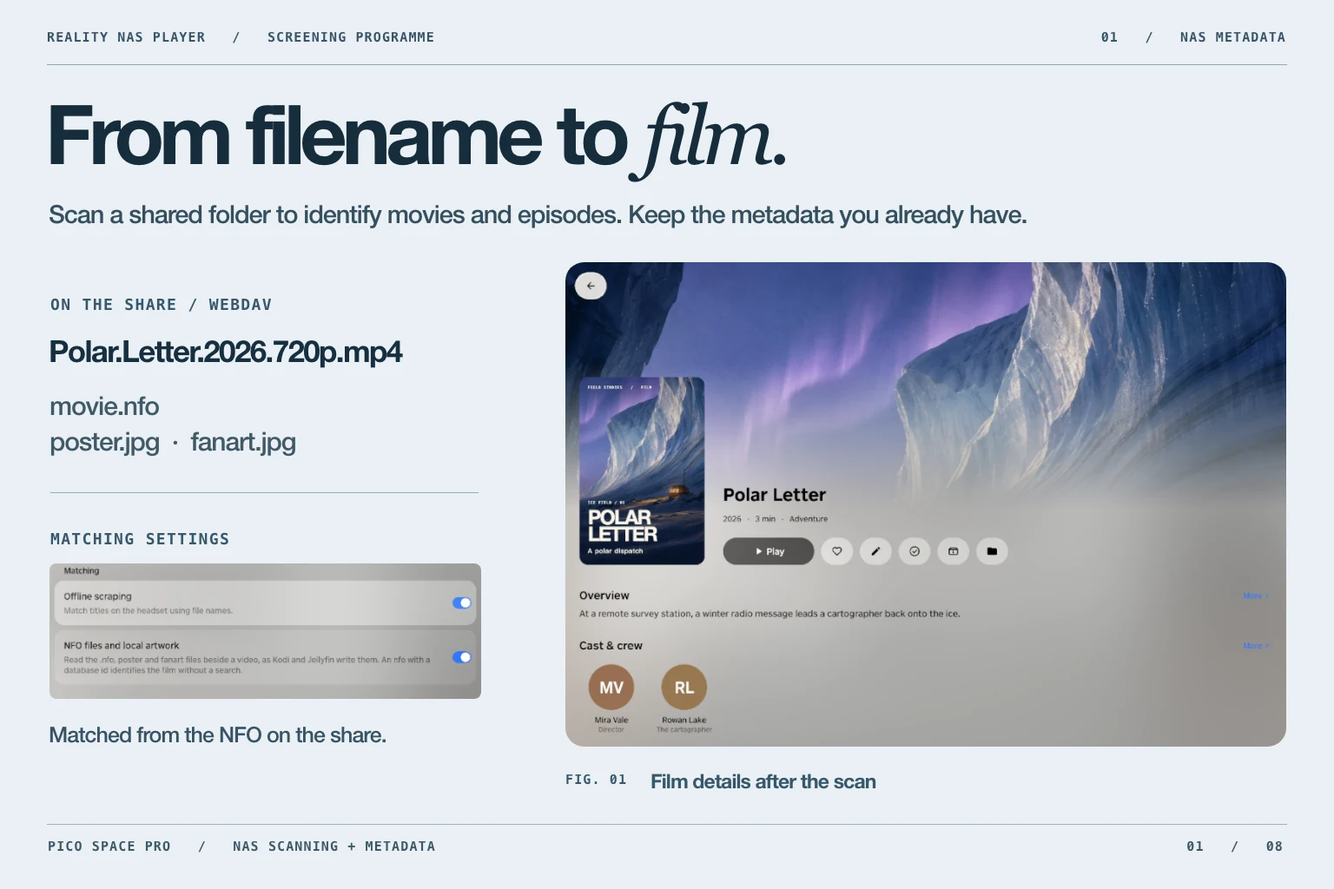
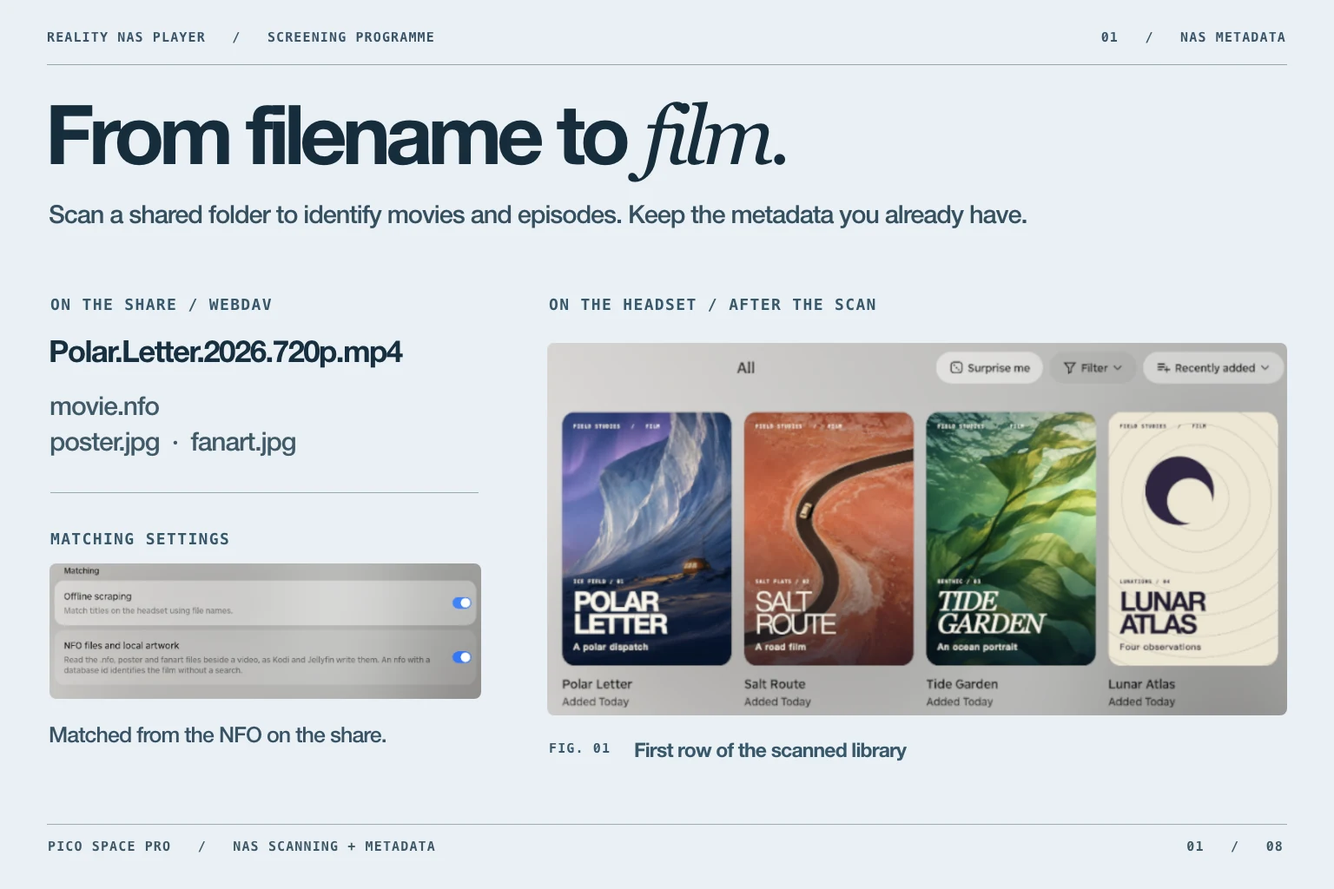
Show the scanned poster wall throughout the library guide

Changed region(s): [[0.4062, 0.2812, 0.9688, 0.9062]]

diff --git a/docs/showcase/README.md b/docs/showcase/README.md
@@ -2,13 +2,13 @@
 
 [Product guide](../../README.md) · [Choose a language](../languages/README.md)
 
-What you see on the screens is Reality NAS Player. The headset views were captured in the PICO OS 6 emulator with the app set to English. The desktop view comes from the desktop app’s own interface. Both editions are showing the same fictional film collection.
+What you see on the screens is Reality NAS Player. The headset views were captured in the PICO OS 6 emulator with the app set to English. The desktop view shows six films from the same fictional programme in the desktop app’s own interface.
 
 | Open a poster | What to look for |
 | --- | --- |
 | [Your NAS, now showing](00-screening-room-en.webp) | A closer view from the center seat as *Polar Letter* plays in the Space Lounge. |
-| [From filename to film](01-auto-scraping-en.webp) | The original files on a WebDAV share, the app’s matching settings and the film entry produced by its scanner. |
-| [Remember the cover?](01-library-en.webp) | The six-title poster wall beside the original covers for *Salt Route* and *Tide Garden*. |
+| [From filename to film](01-auto-scraping-en.webp) | The files for *Polar Letter* on a WebDAV share, the matching settings and the first row of covers the app found. |
+| [The poster wall](01-library-en.webp) | The full headset library after scanning eight films. Both rows of covers, the sidebar and the filter and sort controls are visible. |
 | [Leave the files there](02-connect-en.webp) | Where to add a shared folder or connect a media server. |
 | [Where are we watching?](03-cinemas-en.webp) | The Space Lounge, Private Cinema, Village Square and Desert Camp, each running the same film. |
 | [Beyond the frame](04-panorama-en.webp) | The panorama controls and a second view of the same lake. |
@@ -16,8 +16,8 @@ What you see on the screens is Reality NAS Player. The headset views were captur
 | [Save one for the flight](06-offline-en.webp) | The optional setting for syncing watch progress through your own SMB share. |
 | [The library at your desk](07-desktop-en.webp) | The actual desktop interface with its own window proportions. |
 
-The 3:2 format belongs to the **poster**, not to the app. A spatial view, a video and a desktop window each keep their own shape. We calibrated the headset capture with a square and a circle before taking the pictures. In the 1920 × 1920 capture the square measured 149 × 148 pixels and the circle 150 × 149. The published images use a single scale factor for each screenshot. Some frames crop empty space around the interface so its labels stay readable.
+The poster wall uses a 4:3 page so you can see the whole library window. The other posters use a 3:2 page. Each screenshot keeps its original proportions. We calibrated the headset capture with a square and a circle before taking the pictures. In the 1920 × 1920 capture the square measured 149 × 148 pixels and the circle 150 × 149.
 
-For the metadata example, the app scanned a demonstration WebDAV share containing `Polar.Letter.2026.720p.mp4`, a Kodi `movie.nfo` with a sample ID, `poster.jpg` and `fanart.jpg`. With online lookup off, it read the title, year, synopsis and credits from the NFO and the pictures from the share. The cover photograph was captured during playback with the controls hidden. Its tighter framing preserves the proportions of the original capture.
+The app scanned eight film folders on a demonstration WebDAV share with online lookup switched off. For *Polar Letter*, it found `Polar.Letter.2026.720p.mp4`, a Kodi `movie.nfo` with a sample ID, `poster.jpg` and `fanart.jpg`. The title, year, synopsis and credits came from the NFO. The covers came from their respective folders. The first row in the scanning poster and the full library in the next poster come from one capture of that result.
 
 The covers, synopses, subtitle line and sample footage belong to a fictional programme made for these pictures. The artwork is original and the demonstration films are not included with the player. The library, rooms, playback controls and settings are app captures. See the [third-party notices](../../THIRD_PARTY_NOTICES.md) for the environment and Earth imagery credits.

diff --git a/docs/languages/th.md b/docs/languages/th.md
@@ -21,13 +21,13 @@
 
 ## เปลี่ยนโฟลเดอร์บน NAS เป็นคลังหนังพร้อมข้อมูล
 
-![เปลี่ยนโฟลเดอร์บน NAS เป็นคลังหนังพร้อมข้อมูล — Reality NAS Player](../showcase/01-auto-scraping-en.webp)
+![ไฟล์ของภาพยนตร์ Polar Letter ในโฟลเดอร์ที่แชร์ผ่าน WebDAV และโปสเตอร์แถวแรกที่ปรากฏหลังสแกน](../showcase/01-auto-scraping-en.webp)
 
 เพิ่มโฟลเดอร์ที่แชร์แล้วเริ่มสแกน แอปจะระบุหนังและซีรีส์จากชื่อไฟล์ ปี ซีซัน และเลขตอน ทั้งยังอ่านรหัสหนังหรือซีรีส์ในไฟล์ NFO ของ Kodi และใช้โปสเตอร์กับภาพพื้นหลังที่เก็บไว้ข้างไฟล์วิดีโอ เรื่องย่อและรายชื่อนักแสดงของ Polar Letter ในภาพมาจาก NFO บนโฟลเดอร์ WebDAV โดยไม่ต้องค้นทางอินเทอร์เน็ต หากต้องการค้นใน TMDB ให้เพิ่มคีย์ API ของคุณเอง และหากจับคู่ผิดก็แก้ได้
 
 ## เลือกหนังจากผนังโปสเตอร์
 
-![เลือกหนังจากผนังโปสเตอร์ — Reality NAS Player](../showcase/01-library-en.webp)
+![หน้าคลังบน PICO Space Pro แสดงโปสเตอร์ภาพยนตร์แปดเรื่อง เรียงสองแถว แถวละสี่เรื่อง ด้านซ้ายเป็นหมวดหมู่ ด้านบนมีตัวกรองและตัวเลือกการเรียงลำดับ](../showcase/01-library-en.webp)
 
 จำโปสเตอร์สีน้ำเงินได้แต่ลืมชื่อเรื่องใช่ไหม เปิดภาพปกเพื่อดูภาพพื้นหลัง เรื่องย่อ และรายชื่อนักแสดง สำหรับซีรีส์ก็เลือกซีซันและตอนได้ กรองคลังตามประเภทหรือทศวรรษ หรือกลับไปดูต่อจากฉากที่ค้างไว้
 

diff --git a/README.en.md b/README.en.md
@@ -21,7 +21,7 @@ Open the movie and TV folders on your NAS. Reality NAS Player identifies the tit
 
 ## Turn NAS folders into a film library
 
-![A film filename and Kodi sidecar files beside the title, synopsis and cast the app read from a WebDAV share.](docs/showcase/01-auto-scraping-en.webp)
+![The files for Polar Letter on a WebDAV share and the first four covers on the headset after the scan.](docs/showcase/01-auto-scraping-en.webp)
 
 Add a shared folder under **Sources** and start a scan. The player reads filenames, years and episode numbers to identify what you own. Its metadata scraper can turn a name like `Polar.Letter.2026.720p.mp4` into a film entry with a synopsis, credits and artwork. With automatic library updates enabled, later scans pick up new files.
 
@@ -29,9 +29,9 @@ Already organize your NAS with Kodi or tinyMediaManager? The player reads movie 
 
 ## Browse your collection by its artwork
 
-![The headset poster wall beside the original Salt Route and Tide Garden covers shown on the shelf.](docs/showcase/01-library-en.webp)
+![The PICO Space Pro library shows eight film covers in two rows of four. Library categories are on the left, with Filter and sort controls above the covers.](docs/showcase/01-library-en.webp)
 
-Remember the blue cover but not the film’s name? Look for it on the **poster wall**. Open a cover to see the backdrop, synopsis and cast. Open a series to choose a season and episode. Genre, decade and watch-status filters narrow the shelf, and **Continue watching** takes you back to the scene you left.
+Open your library and browse the **poster wall**. Pick a category on the left, or use **Filter** to narrow the wall by genre, decade or watch status. Select a cover for the film’s synopsis and cast, or open a series to choose a season and episode. **Continue watching** takes you back to the scene you left.
 
 ## Bring the drive, share or server you use today
 
@@ -79,7 +79,7 @@ There are no ads or analytics. Your library and server settings live on the devi
 
 ## A desk is a good seat, too
 
-![The English desktop app browsing the same six demonstration titles in its native window.](docs/showcase/07-desktop-en.webp)
+![The desktop app showing six of the demonstration titles in its native window.](docs/showcase/07-desktop-en.webp)
 
 The macOS and Windows app shares the headset’s library and metadata tools. Browse a collection, open an episode or play a local file with a mouse and keyboard. The spatial rooms belong to the headset experience. **v1.0 ships a headset APK; the desktop app is available to build from source.** [Desktop instructions](docs/build.md)
 

diff --git a/README.md b/README.md
@@ -21,7 +21,7 @@ Open the movie and TV folders on your NAS. Reality NAS Player identifies the tit
 
 ## Turn NAS folders into a film library
 
-![A film filename and Kodi sidecar files beside the title, synopsis and cast the app read from a WebDAV share.](docs/showcase/01-auto-scraping-en.webp)
+![The files for Polar Letter on a WebDAV share and the first four covers on the headset after the scan.](docs/showcase/01-auto-scraping-en.webp)
 
 Add a shared folder under **Sources** and start a scan. The player reads filenames, years and episode numbers to identify what you own. Its metadata scraper can turn a name like `Polar.Letter.2026.720p.mp4` into a film entry with a synopsis, credits and artwork. With automatic library updates enabled, later scans pick up new files.
 
@@ -29,9 +29,9 @@ Already organize your NAS with Kodi or tinyMediaManager? The player reads movie 
 
 ## Browse your collection by its artwork
 
-![The headset poster wall beside the original Salt Route and Tide Garden covers shown on the shelf.](docs/showcase/01-library-en.webp)
+![The PICO Space Pro library shows eight film covers in two rows of four. Library categories are on the left, with Filter and sort controls above the covers.](docs/showcase/01-library-en.webp)
 
-Remember the blue cover but not the film’s name? Look for it on the **poster wall**. Open a cover to see the backdrop, synopsis and cast. Open a series to choose a season and episode. Genre, decade and watch-status filters narrow the shelf, and **Continue watching** takes you back to the scene you left.
+Open your library and browse the **poster wall**. Pick a category on the left, or use **Filter** to narrow the wall by genre, decade or watch status. Select a cover for the film’s synopsis and cast, or open a series to choose a season and episode. **Continue watching** takes you back to the scene you left.
 
 ## Bring the drive, share or server you use today
 
@@ -79,7 +79,7 @@ There are no ads or analytics. Your library and server settings live on the devi
 
 ## A desk is a good seat, too
 
-![The English desktop app browsing the same six demonstration titles in its native window.](docs/showcase/07-desktop-en.webp)
+![The desktop app showing six of the demonstration titles in its native window.](docs/showcase/07-desktop-en.webp)
 
 The macOS and Windows app shares the headset’s library and metadata tools. Browse a collection, open an episode or play a local file with a mouse and keyboard. The spatial rooms belong to the headset experience. **v1.0 ships a headset APK; the desktop app is available to build from source.** [Desktop instructions](docs/build.md)
 

diff --git a/docs/languages/el.md b/docs/languages/el.md
@@ -21,13 +21,13 @@
 
 ## Από τους φακέλους του NAS στα στοιχεία κάθε ταινίας
 
-![Από τους φακέλους του NAS στα στοιχεία κάθε ταινίας — Reality NAS Player](../showcase/01-auto-scraping-en.webp)
+![Τα αρχεία της ταινίας Polar Letter σε κοινόχρηστο φάκελο WebDAV και η πρώτη σειρά αφισών μετά τη σάρωση.](../showcase/01-auto-scraping-en.webp)
 
 Προσθέστε έναν κοινόχρηστο φάκελο και ξεκινήστε τη σάρωση. Ο αναπαραγωγέας αναγνωρίζει τίτλους από το όνομα αρχείου, το έτος και τους αριθμούς σεζόν και επεισοδίου. Διαβάζει επίσης τα αναγνωριστικά ταινιών και σειρών από τα αρχεία NFO του Kodi και χρησιμοποιεί τις αφίσες και τα φόντα που έχετε δίπλα στα βίντεο. Στην εικόνα, η περίληψη και οι ηθοποιοί του Polar Letter προέρχονται από NFO σε κοινόχρηστο φάκελο WebDAV, χωρίς διαδικτυακή αναζήτηση. Για το TMDB μπορείτε να βάλετε δικό σας κλειδί API. Αν χρειαστεί, διορθώστε την αντιστοίχιση.
 
 ## Βρείτε την ταινία από την αφίσα
 
-![Βρείτε την ταινία από την αφίσα — Reality NAS Player](../showcase/01-library-en.webp)
+![Η βιβλιοθήκη στο PICO Space Pro εμφανίζει οκτώ αφίσες σε δύο σειρές των τεσσάρων. Αριστερά βρίσκονται οι κατηγορίες και επάνω τα φίλτρα και η ταξινόμηση.](../showcase/01-library-en.webp)
 
 Θυμάστε την μπλε αφίσα αλλά όχι τον τίτλο; Διαλέξτε το εξώφυλλο για να δείτε την περίληψη, τους ηθοποιούς και την εικόνα φόντου. Στις σειρές μπορείτε να επιλέξετε σεζόν και επεισόδιο. Φιλτράρετε κατά είδος ή δεκαετία ή συνεχίστε από τη σκηνή όπου σταματήσατε.
 

diff --git a/docs/languages/ru.md b/docs/languages/ru.md
@@ -21,13 +21,13 @@
 
 ## От папки на NAS до карточки фильма
 
-![От папки на NAS до карточки фильма — Reality NAS Player](../showcase/01-auto-scraping-en.webp)
+![Файлы фильма Polar Letter в общей папке WebDAV и первый ряд постеров после сканирования.](../showcase/01-auto-scraping-en.webp)
 
 Добавьте сетевую папку и запустите сканирование. Плеер распознаёт фильмы и серии по именам файлов, году, номерам сезона и эпизода. Он также читает идентификаторы фильмов и сериалов из NFO-файлов Kodi и использует постеры и фоны, лежащие рядом с видео. На снимке описание и актёрский состав Polar Letter прочитаны из NFO в папке WebDAV без поиска в интернете. Для поиска в TMDB можно добавить собственный ключ API. Неверное совпадение легко исправить вручную.
 
 ## Ищите фильм по обложке
 
-![Ищите фильм по обложке — Reality NAS Player](../showcase/01-library-en.webp)
+![В библиотеке на PICO Space Pro восемь постеров расположены в два ряда по четыре. Слева видны категории, сверху — фильтры и сортировка.](../showcase/01-library-en.webp)
 
 Помните синий постер, а название забыли? Выберите знакомую обложку, чтобы открыть фон, описание и список актёров. Для сериала можно выбрать сезон и эпизод. Отфильтруйте коллекцию по жанру или десятилетию либо продолжите просмотр с последней сцены.
 

diff --git a/docs/languages/ja.md b/docs/languages/ja.md
@@ -21,13 +21,13 @@ NAS の映画やドラマのフォルダーを PICO Space Pro につなぐと、
 
 ## NAS のファイルから作品情報を自動取得
 
-![NAS のファイルから作品情報を自動取得 — Reality NAS Player](../showcase/01-auto-scraping-en.webp)
+![WebDAV 共有フォルダー内の『Polar Letter』のファイルと、スキャン後にライブラリの先頭に並んだポスター。](../showcase/01-auto-scraping-en.webp)
 
 共有フォルダーを追加してスキャンすると、ファイル名や公開年、シーズン・話数を手がかりに作品を照合します。Kodi 形式の NFO に映画やシリーズの ID があれば、それを読み、同じフォルダーのポスターや背景画像を使えます。画面の『Polar Letter』のあらすじと出演者は WebDAV 上の NFO からオフラインで読み込んだものです。オンライン検索には自分の TMDB API キーを設定でき、誤った照合は手動で直せます。
 
 ## ポスターをめくって次の一本を選ぶ
 
-![ポスターをめくって次の一本を選ぶ — Reality NAS Player](../showcase/01-library-en.webp)
+![PICO Space Pro のライブラリに映画のポスターが横4枚、縦2段で並ぶ。左側にカテゴリ、上部に絞り込みと並べ替えがある。](../showcase/01-library-en.webp)
 
 題名は忘れても、青い表紙なら覚えている。そんなときはポスターが並ぶライブラリへ。作品を開くと背景画像、あらすじ、出演者が見られ、ドラマならシーズンと話数を選べます。ジャンルや年代で絞り込んだり、前回の続きから再生したりできます。
 

diff --git a/docs/languages/ko.md b/docs/languages/ko.md
@@ -21,13 +21,13 @@ NAS에 있는 영화와 시리즈 폴더를 PICO Space Pro에 연결하세요. R
 
 ## NAS를 스캔해 작품 정보를 자동으로 채우세요
 
-![NAS를 스캔해 작품 정보를 자동으로 채우세요 — Reality NAS Player](../showcase/01-auto-scraping-en.webp)
+![WebDAV 공유 폴더에 있는 Polar Letter의 파일과 스캔 후 라이브러리 첫 줄에 나타난 포스터.](../showcase/01-auto-scraping-en.webp)
 
 공유 폴더를 추가하고 스캔하면 파일명, 연도, 시즌과 회차를 바탕으로 작품을 찾습니다. Kodi 형식 NFO에 영화나 시리즈 ID가 있으면 이를 읽고 파일 옆에 둔 포스터와 배경 이미지를 사용합니다. 화면 속 ‘Polar Letter’의 줄거리와 출연진은 온라인 검색 없이 WebDAV 공유의 NFO에서 가져왔습니다. 온라인 검색에는 본인의 TMDB API 키를 추가할 수 있고 잘못 연결된 작품은 직접 바로잡을 수 있습니다.
 
 ## 포스터로 둘러보는 보관함
 
-![포스터로 둘러보는 보관함 — Reality NAS Player](../showcase/01-library-en.webp)
+![PICO Space Pro 라이브러리에 영화 포스터 여덟 장이 한 줄에 네 장씩 두 줄로 보인다. 왼쪽에는 카테고리, 위쪽에는 필터와 정렬 메뉴가 있다.](../showcase/01-library-en.webp)
 
 제목이 가물가물해도 파란 포스터는 눈에 띕니다. 표지를 열어 배경 이미지와 줄거리, 출연진을 보거나 시리즈의 시즌과 회차를 고르세요. 장르와 연대로 범위를 좁히고, 이어 보기로 마지막 장면에 돌아갈 수 있습니다.
 

diff --git a/docs/languages/fr.md b/docs/languages/fr.md
@@ -21,13 +21,13 @@ Connectez les dossiers de films et de séries de votre NAS à votre PICO Space P
 
 ## Des dossiers du NAS aux fiches de films
 
-![Des dossiers du NAS aux fiches de films — Reality NAS Player](../showcase/01-auto-scraping-en.webp)
+![Les fichiers de Polar Letter dans un dossier partagé WebDAV et la première rangée d’affiches après l’analyse.](../showcase/01-auto-scraping-en.webp)
 
 Lancez l’analyse d’un dossier partagé. Le lecteur s’appuie sur les noms de fichiers, les années et les numéros de saison et d’épisode. Il sait aussi lire les identifiants de films et de séries dans vos NFO Kodi et reprendre les affiches et fonds d’écran rangés à côté des vidéos. Sur l’image, le résumé et la distribution de Polar Letter viennent du NFO d’un partage WebDAV, lu hors ligne. Une clé API TMDB personnelle permet de chercher en ligne. Vous pouvez rectifier une association.
 
 ## Retrouvez un film à son affiche
 
-![Retrouvez un film à son affiche — Reality NAS Player](../showcase/01-library-en.webp)
+![La bibliothèque sur PICO Space Pro affiche huit films sur deux rangées de quatre affiches. Les catégories sont à gauche, les filtres et le tri en haut.](../showcase/01-library-en.webp)
 
 Vous vous souvenez de l’affiche bleue mais plus du titre ? Parcourez le mur d’affiches, puis ouvrez une fiche pour retrouver le visuel, le résumé et les interprètes. Les séries se parcourent par saison et épisode. Filtrez par genre ou par décennie, ou reprenez un film à la scène où vous l’avez laissé.
 

diff --git a/docs/languages/ro.md b/docs/languages/ro.md
@@ -21,13 +21,13 @@ Conectează la PICO Space Pro dosarele cu filme și seriale de pe NAS. Reality N
 
 ## De la dosarele de pe NAS la fișa filmului
 
-![De la dosarele de pe NAS la fișa filmului — Reality NAS Player](../showcase/01-auto-scraping-en.webp)
+![Fișierele filmului Polar Letter dintr-un dosar partajat prin WebDAV și primul rând de afișe după scanare.](../showcase/01-auto-scraping-en.webp)
 
 Adaugă un dosar partajat și pornește scanarea. Playerul identifică filmele și episoadele după numele fișierului, an și numerele sezonului și episodului. Citește și identificatorii din fișierele NFO în format Kodi, împreună cu afișele și fundalurile de lângă videoclipuri. În imagine, rezumatul și distribuția filmului Polar Letter provin dintr-un NFO citit prin WebDAV, fără căutare pe internet. Pentru căutări în TMDB poți adăuga propria cheie API. Asocierile greșite se pot corecta.
 
 ## Răsfoiește biblioteca după afișe
 
-![Răsfoiește biblioteca după afișe — Reality NAS Player](../showcase/01-library-en.webp)
+![Biblioteca de pe PICO Space Pro arată opt afișe de film pe două rânduri de câte patru. Categoriile sunt în stânga, iar opțiunile de filtrare și sortare sunt sus.](../showcase/01-library-en.webp)
 
 Îți amintești afișul albastru, dar nu și titlul? Deschide coperta pentru a vedea fundalul, rezumatul și distribuția. La seriale poți alege sezonul și episodul. Filtrează după gen sau deceniu ori reia un film din scena în care te-ai oprit.
 

diff --git a/docs/languages/tr.md b/docs/languages/tr.md
@@ -21,13 +21,13 @@ NAS’ınızdaki film ve dizi klasörlerini PICO Space Pro’ya bağlayın. Real
 
 ## NAS klasörlerinden film künyelerine
 
-![NAS klasörlerinden film künyelerine — Reality NAS Player](../showcase/01-auto-scraping-en.webp)
+![WebDAV paylaşımındaki Polar Letter dosyaları ve tarama sonrasında kitaplıkta görünen ilk afiş sırası.](../showcase/01-auto-scraping-en.webp)
 
 Bir paylaşımlı klasör ekleyip taramayı başlatın. Oynatıcı dosya adlarını, yılları, sezon ve bölüm numaralarını kullanarak yapımları tanır. Kodi biçimindeki NFO dosyalarından film veya dizi kimliklerini okur ve videoların yanındaki afişlerle arka planları kullanır. Görseldeki Polar Letter’ın özeti ve oyuncu kadrosu, internet araması yapılmadan bir WebDAV paylaşımındaki NFO’dan alındı. Çevrimiçi arama için kendi TMDB API anahtarınızı ekleyebilir, hatalı bir eşleşmeyi elle düzeltebilirsiniz.
 
 ## Arşivi afişlerden gezin
 
-![Arşivi afişlerden gezin — Reality NAS Player](../showcase/01-library-en.webp)
+![PICO Space Pro kitaplığında sekiz film afişi dörderli iki sıra hâlinde görünüyor. Kategoriler solda, filtreleme ve sıralama seçenekleri üstte.](../showcase/01-library-en.webp)
 
 Adını unuttunuz ama mavi afiş aklınızda mı? Kapağı açıp arka planı, konuyu ve oyuncu kadrosunu görün. Dizilerde sezon ve bölüm seçin. Türe ya da on yıla göre filtreleyebilir veya yarım kalan filme kaldığınız sahneden devam edebilirsiniz.
 

diff --git a/docs/languages/es.md b/docs/languages/es.md
@@ -21,13 +21,13 @@ Conecta las carpetas de películas y series de tu NAS a PICO Space Pro. Reality 
 
 ## De las carpetas del NAS a las fichas de las películas
 
-![De las carpetas del NAS a las fichas de las películas — Reality NAS Player](../showcase/01-auto-scraping-en.webp)
+![Los archivos de Polar Letter en una carpeta WebDAV y la primera fila de carteles tras el escaneo.](../showcase/01-auto-scraping-en.webp)
 
 Añade una carpeta compartida e inicia el análisis. El reproductor reconoce los nombres de archivo, el año y los números de temporada y episodio. También lee los identificadores de películas y series de los NFO de Kodi y aprovecha los carteles y fondos guardados junto al vídeo. La sinopsis y el reparto de Polar Letter, en la imagen, se leyeron sin conexión del NFO de un recurso WebDAV. Puedes añadir tu clave de la API de TMDB para buscar en línea y corregir una coincidencia a mano.
 
 ## Explora la biblioteca por sus carteles
 
-![Explora la biblioteca por sus carteles — Reality NAS Player](../showcase/01-library-en.webp)
+![La biblioteca de PICO Space Pro muestra ocho carteles en dos filas de cuatro. Las categorías están a la izquierda y los controles de filtro y orden, arriba.](../showcase/01-library-en.webp)
 
 Si solo recuerdas aquel cartel azul, búscalo en el muro de portadas. Abre la película para ver su fondo, la sinopsis y el reparto, o elige temporada y episodio en una serie. Filtra por género o década, o retoma una película en la escena donde la dejaste.
 
